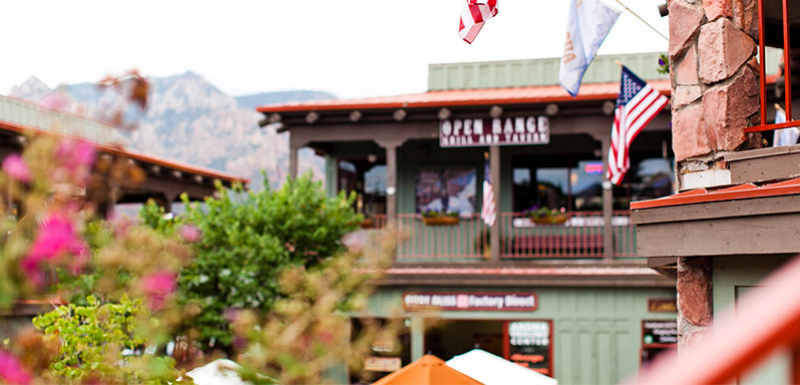
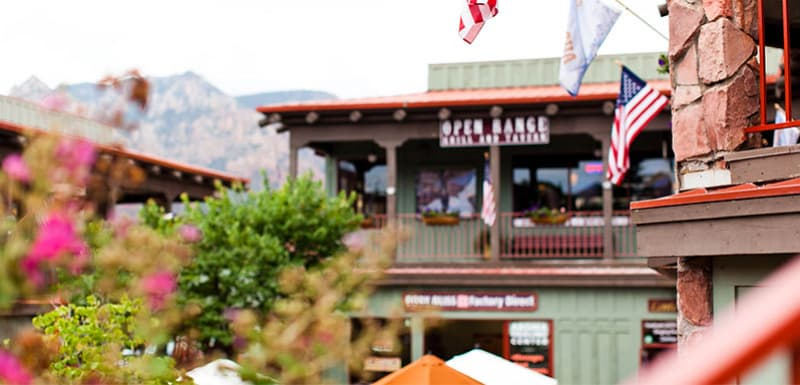
Сжал картинки. перенес фото в каталог

diff --git a/catalog.html b/catalog.html
@@ -28,16 +28,20 @@
               <a class="navigation-link navigation-link-current" href="#">Гостиницы</a>
             </li>
           </ul>
-          <ul class="header-user-menu">
-            <li class="header-user-item">
-              <img src="images/search.svg" alt="лупа-поиск" width="20" height="20">
+          <ul class="navigation-user-menu">
+            <li class="navigation-user-item">
+              <svg width="19" height="19" viewBox="0 0 19 19" fill="none" xmlns="http://www.w3.org/2000/svg">
+                <path d="M18.5 17.0083L14.8 13.3287C15.8 12.0359 16.5 10.3453 16.5 8.4558C16.5 4.08011 12.9 0.5 8.5 0.5C4.1 0.5 0.5 4.17956 0.5 8.55525C0.5 12.9309 4.1 16.511 8.5 16.511C10.3 16.511 12 15.9144 13.4 14.8204L17.1 18.5L18.5 17.0083ZM8.5 14.5221C5.2 14.5221 2.5 11.837 2.5 8.55525C2.5 5.27348 5.2 2.5884 8.5 2.5884C11.8 2.5884 14.5 5.27348 14.5 8.55525C14.5 11.837 11.8 14.5221 8.5 14.5221Z" fill="black"/>
+                </svg>
               <button type="submit" class="visually-hidden">найти</button>
             </li>
-            <li class="header-user-item">
-              <img src="images/icons-heart.svg" alt="сердце" width="18" height="17">
+            <li class="navigation-user-item">
+              <svg width="18" height="17" viewBox="0 0 18 17" fill="none" xmlns="http://www.w3.org/2000/svg">
+                <path d="M8.9 17C8.6 17 8.3 16.9 8.1 16.6C2.7 10.5 1.4 9.1 1.1 8.7C0.4 7.8 0 6.6 0 5.4C0 2.4 2.4 0 5.5 0C6.8 0 8 0.5 9 1.3C10 0.5 11.3 0 12.5 0C15.5 0 18 2.4 18 5.4C18 6.7 17.5 7.9 16.7 8.8L9.7 16.7C9.5 16.9 9.3 17 8.9 17ZM2.9 7.5C3.2 7.9 6.4 11.5 9 14.4L15.2 7.4C15.7 6.9 15.9 6.2 15.9 5.4C15.9 3.6 14.4 2.1 12.6 2.1C11.6 2.1 10.6 2.6 9.9 3.4C9.6 3.7 9.3 3.8 9 3.8C8.7 3.8 8.4 3.6 8.2 3.4C7.5 2.6 6.5 2.1 5.5 2.1C3.7 2.1 2.2 3.6 2.2 5.4C2.1 6.3 2.5 7 2.9 7.5C2.8 7.5 2.8 7.5 2.9 7.5Z" fill="black"/>
+                </svg>
               <span class="favorites-qty">12</span>
             </li>
-            <li class="header-user-item">
+            <li class="navigation-user-item">
              <button type="submit" class="button">Хочу сюда!</button>
             </li>
           </ul>
@@ -51,11 +55,11 @@
               <ul class="breadcrumbs">
                 <li class="breadcrumbs-item">
                   <a class="breadcrumbs-link" href="index.html">
-                    <img class="breadcrumbs-home" src="images/home.svg" alt="Иконка главной страницы" width="12" height="12">
+                    <img class="breadcrumbs-home" src="images/catalog/home.svg" alt="Иконка главной страницы" width="12" height="12">
                   </a>
                 </li>
                 <li>
-                  <img src="images/breadcrumbs.svg" alt="дальше" width="6" height="9">
+                  <img src="images/catalog/breadcrumbs.svg" alt="дальше" width="6" height="9">
                 </li>
                 <li class="breadcrumbs-item">
                   <a class="breadcrumbs-link">Гостиницы</a>
@@ -149,15 +153,15 @@
           </select>
           <a href="#" class="button-cards">
             <span class="visually-hidden">Показать карточки</span>
-            <img class="view-icon" src="images/view-icon-table.svg" alt="Показать карточки" width="16" height="14">
+            <img class="view-icon" src="images/catalog/view-icon-table.svg" alt="Показать карточки" width="16" height="14">
           </a>
           <a href="#" class="button-cards">
             <span class="visually-hidden">Показать карточку</span>
-            <img class="view-icon" src="images/view-icon-slideshow.svg" alt="Показать карточку" width="16" height="14">
+            <img class="view-icon" src="images/catalog/view-icon-slideshow.svg" alt="Показать карточку" width="16" height="14">
           </a>
           <a href="#" class="button-cards">
           <span class="visually-hidden">Показать список</span>
-          <img class="view-icon" src="images/view-icon-list.svg" alt="Показать список" width="16" height="14">
+          <img class="view-icon" src="images/catalog/view-icon-list.svg" alt="Показать список" width="16" height="14">
           </a>
         </section>
 
@@ -165,7 +169,7 @@
           <ul class="hotel-description-list">
             <li class="hotel-description-card">
               <a class="hotel-card-link" href="hotel.html">
-                <img class="hotel-card-image" src="images/amara.jpg" alt="вид на небо сквозь горы" width="300" height="212">
+                <img class="hotel-card-image" src="images/catalog/amara.jpg" alt="вид на небо сквозь горы" width="300" height="212">
               </a>
               <a class="hotel-card-link" href="hotel.html">
                 <h3 class="hotel-card-title">Amara Resort & Spa</h3>
@@ -181,7 +185,7 @@
             </li>
             <li class="hotel-description-card">
               <a class="hotel-card-link" href="hotel.html">
-                <img class="hotel-card-image" src="images/villas.jpg" alt="вид на горы небо радугу" width="300" height="212">
+                <img class="hotel-card-image" src="images/catalog/villas.jpg" alt="вид на горы небо радугу" width="300" height="212">
               </a>
               <a class="hotel-card-link" href="hotel.html">
                 <h3 class="hotel-card-title">Villas at Poco Diablo</h3>
@@ -197,7 +201,7 @@
             </li>
             <li class="hotel-description-card">
               <a class="hotel-card-link" href="hotel.html">
-                <img class="hotel-card-image" src="images/desert.jpg" alt="вид на горы утром" width="300" height="212">
+                <img class="hotel-card-image" src="images/catalog/desert.jpg" alt="вид на горы утром" width="300" height="212">
               </a>
               <a class="hotel-card-link" href="hotel.html">
                 <h3 class="hotel-card-title">Desert Quail Inn</h3>
@@ -213,7 +217,7 @@
             </li>
             <li class="hotel-description-card">
               <a class="hotel-card-link" href="hotel.html">
-                <img class="hotel-card-image" src="images/green.jpg" alt="вид на горы под зведным небом" width="300" height="212">
+                <img class="hotel-card-image" src="images/catalog/green.jpg" alt="вид на горы под зведным небом" width="300" height="212">
               </a>
               <a class="hotel-card-link" href="hotel.html">
                 <h3 class="hotel-card-title">GreenTree Inn</h3>

diff --git a/index.html b/index.html
@@ -13,9 +13,9 @@
         <nav class="navigation">
           <ul class="navigation-list">
             <li class="navigation-item">
-              <a href="index.html">
+              <a class="navigation-link" href="index.html">
                 <span class="visually-hidden">Логотип сайта Седона</span>
-                  <img src="/images/logo.svg" alt="Логотип">
+                <img src="/images/logo.svg" alt="Логотип">
               </a>
             </li>
             <li class="navigation-item">
@@ -25,19 +25,23 @@
               <a class="navigation-link" href="#">О Седоне</a>
             </li>
             <li class="navigation-item">
-             <a class="navigation-link" href="#">Гостиницы</a>
+             <a class="navigation-link" href="catalog.html">Гостиницы</a>
            </li>
           </ul>
-          <ul class="header-user-menu">
-            <li class="header-user-item">
-              <img src="/images/search.svg" alt="лупа-поиск" width="20" height="20">
-              <button class="search-form-button" type="submit">найти</button>
+          <ul class="navigation-user-menu">
+            <li class="navigation-user-item">
+              <svg width="19" height="19" viewBox="0 0 19 19" fill="none" xmlns="http://www.w3.org/2000/svg">
+                <path d="M18.5 17.0083L14.8 13.3287C15.8 12.0359 16.5 10.3453 16.5 8.4558C16.5 4.08011 12.9 0.5 8.5 0.5C4.1 0.5 0.5 4.17956 0.5 8.55525C0.5 12.9309 4.1 16.511 8.5 16.511C10.3 16.511 12 15.9144 13.4 14.8204L17.1 18.5L18.5 17.0083ZM8.5 14.5221C5.2 14.5221 2.5 11.837 2.5 8.55525C2.5 5.27348 5.2 2.5884 8.5 2.5884C11.8 2.5884 14.5 5.27348 14.5 8.55525C14.5 11.837 11.8 14.5221 8.5 14.5221Z" fill="black"/>
+                </svg>
+              <button class="visually-hidden" type="submit">найти</button>
             </li>
-            <li class="header-user-item">
-              <img src="/images/icons-heart.svg" alt="сердце">
+            <li class="navigation-user-item">
+              <svg width="18" height="17" viewBox="0 0 18 17" fill="none" xmlns="http://www.w3.org/2000/svg">
+                <path d="M8.9 17C8.6 17 8.3 16.9 8.1 16.6C2.7 10.5 1.4 9.1 1.1 8.7C0.4 7.8 0 6.6 0 5.4C0 2.4 2.4 0 5.5 0C6.8 0 8 0.5 9 1.3C10 0.5 11.3 0 12.5 0C15.5 0 18 2.4 18 5.4C18 6.7 17.5 7.9 16.7 8.8L9.7 16.7C9.5 16.9 9.3 17 8.9 17ZM2.9 7.5C3.2 7.9 6.4 11.5 9 14.4L15.2 7.4C15.7 6.9 15.9 6.2 15.9 5.4C15.9 3.6 14.4 2.1 12.6 2.1C11.6 2.1 10.6 2.6 9.9 3.4C9.6 3.7 9.3 3.8 9 3.8C8.7 3.8 8.4 3.6 8.2 3.4C7.5 2.6 6.5 2.1 5.5 2.1C3.7 2.1 2.2 3.6 2.2 5.4C2.1 6.3 2.5 7 2.9 7.5C2.8 7.5 2.8 7.5 2.9 7.5Z" fill="black"/>
+                </svg>
               <span class="favorites-qty">12</span>
             </li>
-            <li class="header-user-item">
+            <li class="navigation-user-item">
               <button class="button" type="submit">Хочу сюда!</button>
             </li>
           </ul>
@@ -46,7 +50,7 @@
       <main class="main-container main-index">
         <section class="hero">
           <h1 class="visually-hidden">Седона - небольшой городок в Аризоне</h1>
-          <img src="/images/welcome.svg" alt="горы Седоны" width="458" height="352">
+          <img class="images-welcome" src="/images/welcome.svg" alt="горы Седоны" width="458" height="352">
         </section>
         <section class="advantages-section">
           <h2 class="title">Седона — небольшой городок в Аризоне,

diff --git a/styles/styles.css b/styles/styles.css
@@ -67,6 +67,7 @@ body {
 
 .navigation-list {
   display: flex;
+  align-items: center;
   list-style-type: none;
   width: 500px;
   margin: 0;
@@ -83,8 +84,9 @@ body {
   text-decoration: none;
 }
 
-.header-user-menu {
+.navigation-user-menu {
   display: flex;
+  align-items: center;
   margin: 0;
   max-width: 300px;
   margin-left: auto;
@@ -96,7 +98,7 @@ body {
   line-height: 24px;
 }
 
-.header-user-item {
+.navigation-user-item {
   list-style-type: none;
 }
 
@@ -136,6 +138,11 @@ body {
   background-repeat: no-repeat;
 }
 
+.images-welcome {
+  margin-top: 51px;
+  margin-bottom: 81px;
+}
+
 .visually-hidden {
   position: absolute;
   width: 1px;
@@ -171,7 +178,7 @@ body {
   background-color: #1D2D38;
   background-size: cover;
   background-position: center;
-  background-image: url("../images/catalog-background.jpg");
+  background-image: url("../images/catalog/catalog-background.jpg");
   background-repeat: no-repeat;
 }
 
@@ -283,7 +290,7 @@ body {
 
 .subscribe {
   border-color: #50769D;
-  background-image: url("../images/Subscribe.png");
+  background-image: url("../images/catalog/Subscribe.jpg");
   background-repeat: no-repeat;
   background-size: 100% auto;;
 }
@@ -308,11 +315,18 @@ body {
   display: flex;
   width: 1060px;
   justify-content: space-between;
+  margin: 0 auto;
+  align-items: center;
+  margin-top: 40px;
+  margin-bottom: 30px;
 }
 
 .social-button-list {
   display: flex;
+  align-items: center;
   list-style-type: none;
+  margin: 0;
+  padding: 0;
 }
 
 .social-button-item {
